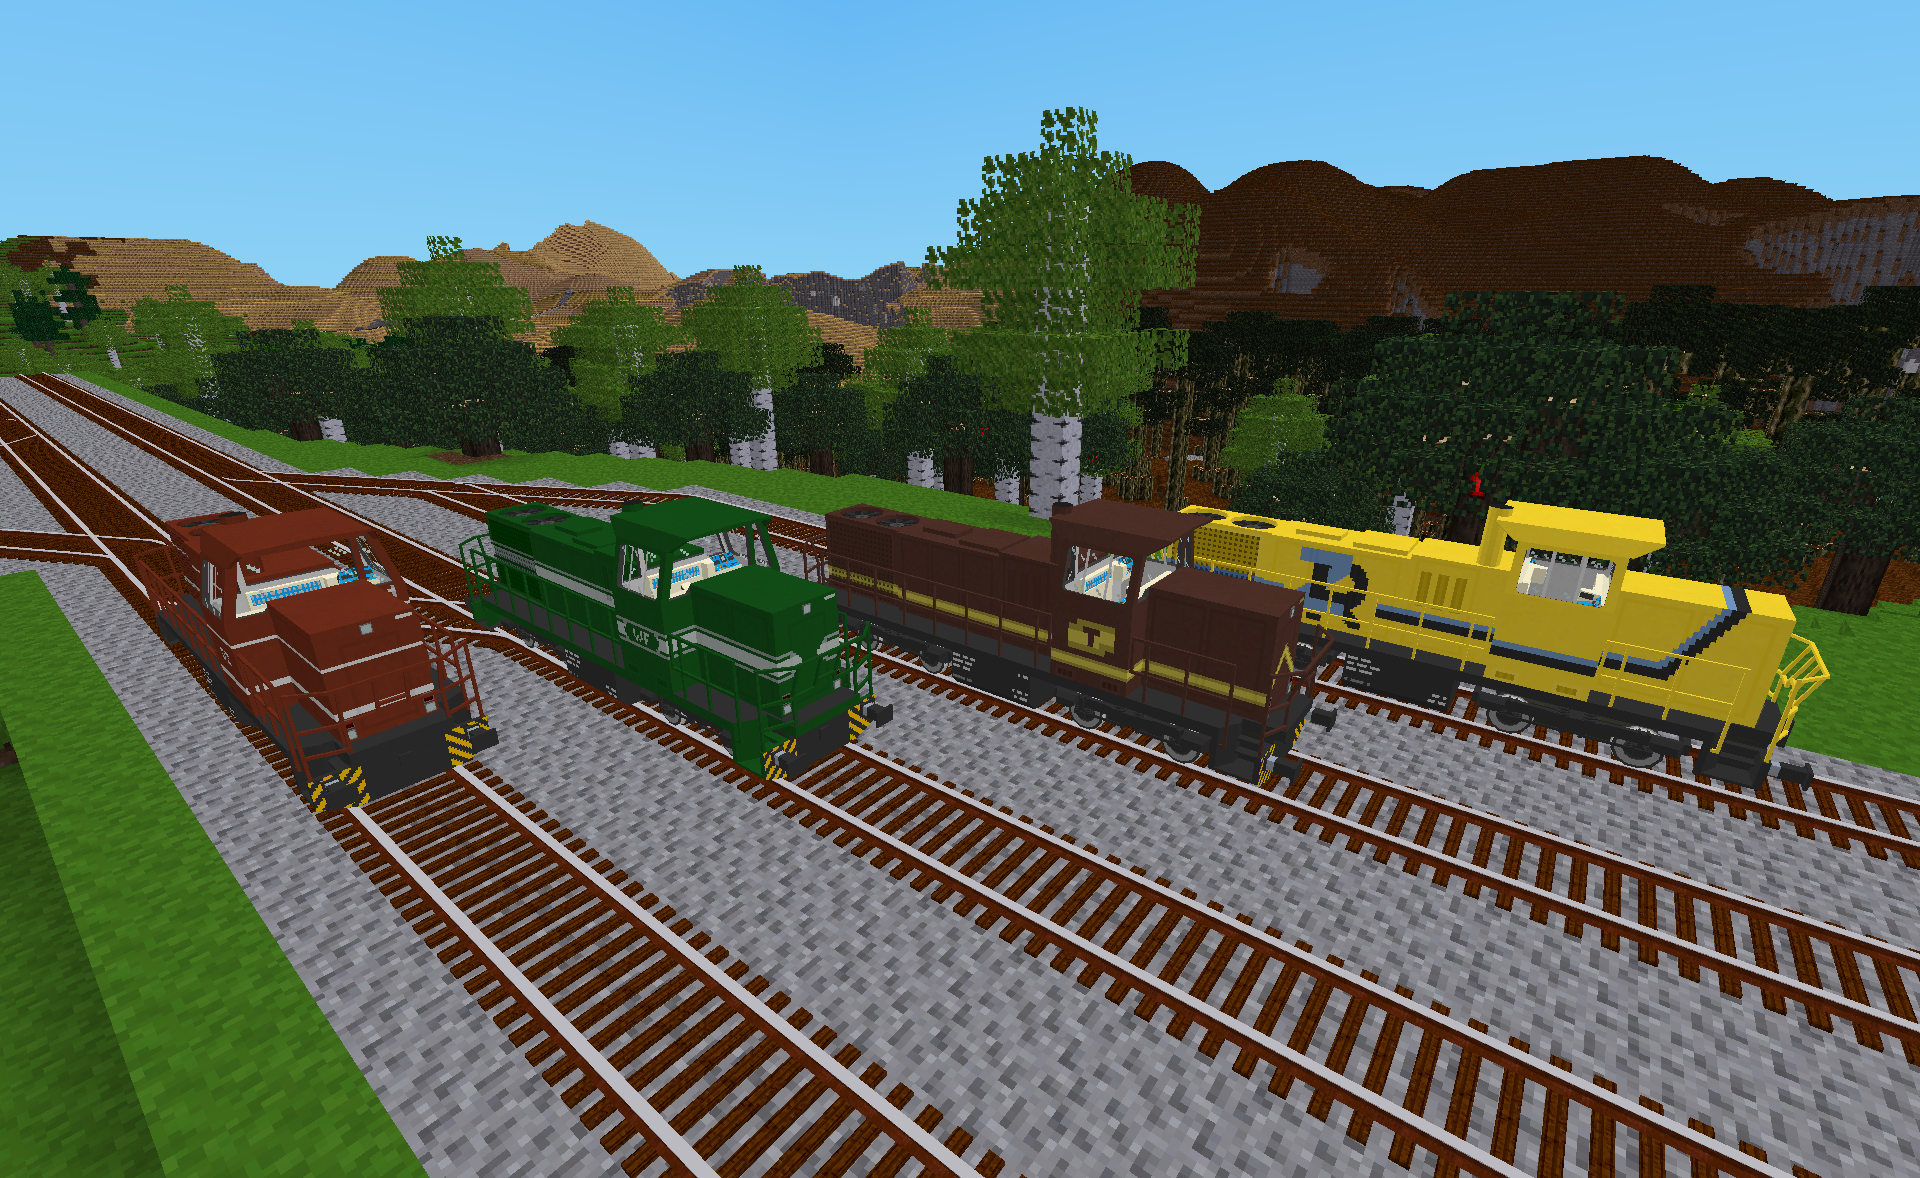
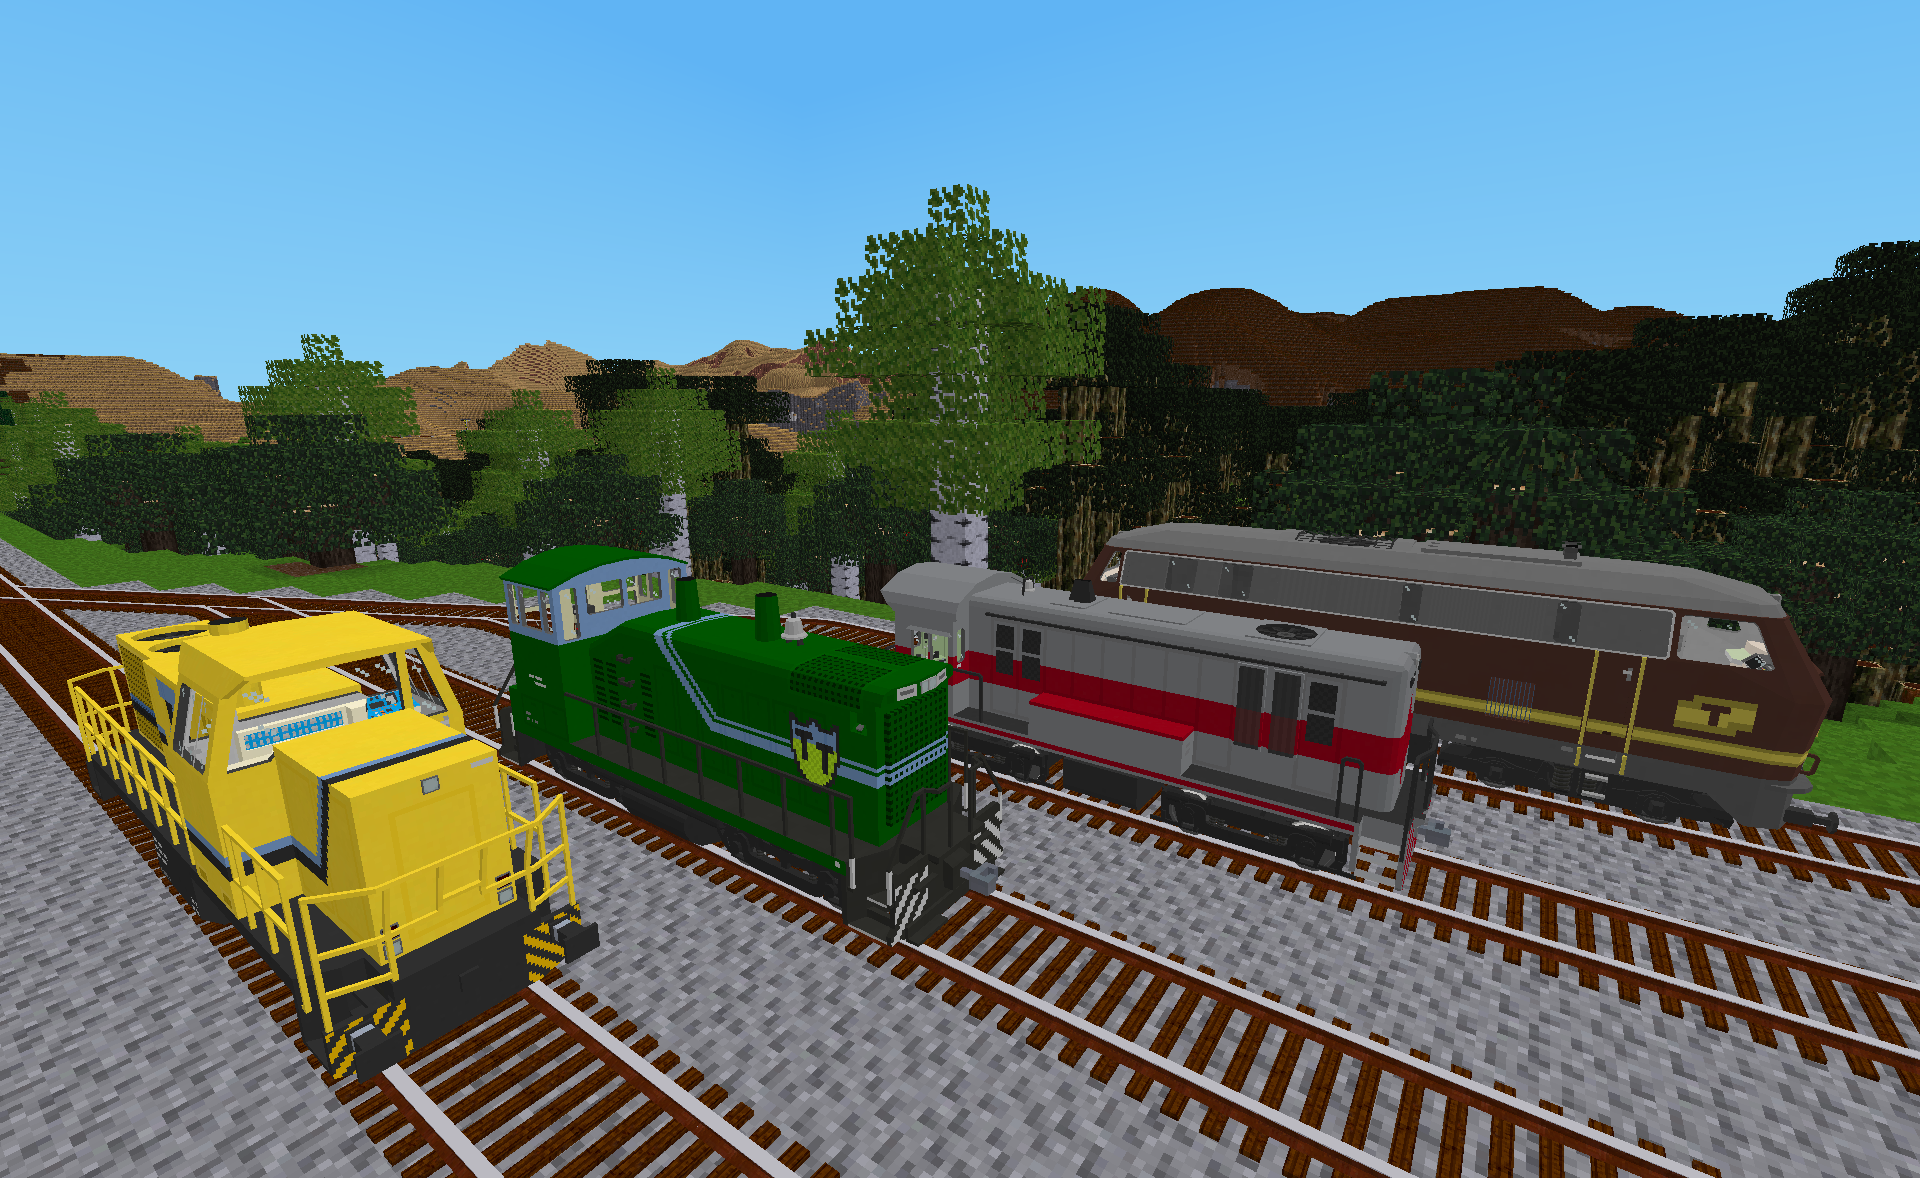
Add the Australian 500 Class Diesel Locomotive

diff --git a/dlxtrains_diesel_locomotives/README.md b/dlxtrains_diesel_locomotives/README.md
@@ -10,6 +10,7 @@ Note: DLX is used here to denote items, tools, wagons and locomotives defined in
 
 The following craft items are defined and added to the game if the "Complexity of DLX wagon crafting recipes" setting defined in **DlxTrains** is set to "Standard".  They are not added to the game if it is set to "Basic".  The default value for the setting is "Standard".
 
+- **Australian 500 Class Diesel Locomotive Body** - This is the set of components that are added to a chassis to make a Australian 500 Class Diesel Locomotive.
 - **Diesel Locomotive Battery Pack** - This item represents the batteries that provide power to the locomotive's electrical systems.  They are recharged when the diesel engine is running.  Note that battery power for DLX diesel locomotives is not currently represented or tracked in game.
 - **Diesel Locomotive Bogie** - Similar to the bogies used on wagons, this is a pair of wheel sets that are connected by a framework that can turn independently of the locomotive that it supports.  Unlike wagon bogies, however, it also contains gearboxes or electric motors (depending on the type of diesel locomotive) that are used to propel the train.
 - **Diesel Locomotive Chassis** - This is the underframe of the locomotive.
@@ -31,11 +32,24 @@ The following table summarizes the current set of DlxTrains Diesel Locomotives.
 
 Icon|Wagon Name|Length (m)|Coupler Type|Max Speed (m/s)|Livery Options
 :---:|---|:---:|---|:---:|:---:
+![](textures/inventory/dlxtrains_diesel_locomotives_locomotive_type4_inv.png)|Australian 500 Class Diesel Locomotive|6.3|Knuckle|20|4
 ![](textures/inventory/dlxtrains_diesel_locomotives_locomotive_type3_inv.png)|European BR218 Diesel Locomotive|8.2|Buffer & Chain|25|4
 ![](textures/inventory/dlxtrains_diesel_locomotives_locomotive_type1_inv.png)|European G1206 Diesel Locomotive|7.35|Buffer & Chain|25|4
 ![](textures/inventory/dlxtrains_diesel_locomotives_locomotive_type2_inv.png)|North American SW1500 Diesel Locomotive|6.81|Knuckle|25|4
 
 Note that locomotives may not be available in-game if the "Longest DLX wagon to include in game" setting defined in **DlxTrains** is set to a value other than "Unlimited".  That setting will use the lengths shown in the table when determining the locomotives to be excluded.
+  
+### Australian 500 Class Diesel Locomotive
+
+The Australian 500 Class Diesel Locomotive in DlxTrains is loosely based on the South Australian Railways 500 class diesel-electric shunting locomotive built by the Islington Railway Workshops in the late 1960s. Thirty four of the locomotives were built and many remained in service until the early 1990s.
+
+In game, the locomotive features several effects when the locomotive is moving:
+* The main and running lights will appear to turn on (but not illuminate) based on the locomotive's direction of movement.
+* Its radiator cooling fan will appear to be spinning while the locomotive is moving.
+* The diesel engine's sound will change based on the locomotive's velocity (unless this feature is disabled in the **DlxTrains** mod settings).
+* The amount of diesel smoke produced by the locomotive will vary based on its acceleration, velocity and the length of the train (unless this feature is disabled in the **DlxTrains** mod settings).
+
+The Australian 500 Class Diesel Locomotive has two driver stands in its cab, one facing forward and the other rearward. Players can select between these "forward" and reverse" facing driver stands as needed assuming that both stands are not concurrently occupied.
 
 ### European BR218 Diesel Locomotive
 
@@ -47,7 +61,7 @@ In game, the locomotive features several effects when the locomotive is moving:
 * The diesel engine's sound will change based on the locomotive's velocity (unless this feature is disabled in the **DlxTrains** mod settings).
 * The amount of diesel smoke produced by the locomotive will vary based on its acceleration, velocity and the length of the train (unless this feature is disabled in the **DlxTrains** mod settings).
 
-The locomotive has two driver's cabs, one at each end. Players can choose to be located in either cab 1 or cab 2, switching between the two even while the locomotive is moving. This can be especially useful when changing the direction of travel.  For the best in-cab experience, use the optional [advtrains_attachment_offset_patch](https://content.luanti.org/packages/doxygen_spammer/advtrains_attachment_offset_patch/)
+The locomotive has two driver's cabs, one at each end. Players can choose to be located in either cab 1 or cab 2, switching between the two even while the locomotive is moving. This can be especially useful when changing the direction of travel.
 
 ### European G1206 Diesel Locomotive
 
@@ -78,7 +92,7 @@ Players can optionally customize their locomotives with a visible unit number th
 
 ## Notes
 
-Due to current limitations in Luanti, the player's view while on board the locomotive will be from a point in space just above the center of the locomotive rather than from inside the cabin.  While this viewpoint is certainly sufficient, switching to third person view while driving the locomotive provides a slightly different perspective from outside the locomotive that might also be useful.  Alternatively, DlxTrains now supports the [advtrains_attachment_offset_patch](https://content.luanti.org/packages/doxygen_spammer/advtrains_attachment_offset_patch/) as an optional dependency which provides a fix for the issue.
+Due to current limitations in Luanti, the player's view while on board the locomotive will be from a point in space just above the center of the locomotive rather than from inside the cabin.  While this viewpoint is certainly sufficient, switching to third person view while driving the locomotive provides a slightly different perspective from outside the locomotive that might also be useful.  Alternatively, DlxTrains supports the [advtrains_attachment_offset_patch](https://content.luanti.org/packages/doxygen_spammer/advtrains_attachment_offset_patch/) as an optional dependency which provides a fix for the issue. Using the patch is highly recommended since it allows the player to have a first person perspective from the correct location inside the cab based on the selected diver stand.
 
 ## Licenses
 

diff --git a/README.md b/README.md
@@ -3,7 +3,7 @@
 DlxTrains ModPack is an extension for AdvTrains that adds train related content.  Features of the modpack include:
 
 - Detailed locomotives and wagons whose livery and age appearance can be selected by the owning player.
-- 3 diesel locomotives with dynamic sound, smoke and texture effects.
+- 4 diesel locomotives with dynamic sound, smoke and texture effects.
 - 17 industrial freight wagons, including some that have visible loads that reflect the wagon's inventory.
 - 2 support wagons, including an escort wagon and a caboose.
 - Basic support for [AdvTrains Livery Tools](https://content.luanti.org/packages/Marnack/advtrains_livery_tools/).
@@ -18,7 +18,7 @@ Please see the README file in each of the included mod folders for important add
 
 - **DlxTrains** - This is the base mod needed by all other DlxTrains related mods.  It contains common craft items and tools for the modpack plus utilities needed by the other DlxTrains mods.
 - **DlxTrains Cargo** - This is an optional mod that adds some cargo nodes as well as additional cargo related textures that can be used by the DlxTrains Industrial Wagons mod.
-- **DlxTrains Diesel Locomotives** - This mod provides three diesel locomotives in multiple liveries.  Players can optionally customize the exterior of these locomotives with a visible unit number that is unique to each locomotive.
+- **DlxTrains Diesel Locomotives** - This mod provides four diesel locomotives in multiple liveries.  Players can optionally customize the exterior of these locomotives with a visible unit number that is unique to each locomotive.
 - **DlxTrains Industrial Wagons** - This mod provides freight wagons that feature selectable liveries and, in some cases, visible cargo.
 - **DlxTrains Support Wagons** - This mod provides support wagons, including an escort wagon and a caboose, both of which provide additional seating for train crew members.  These wagons also feature selectable liveries.
 
@@ -28,14 +28,14 @@ All of the liveries in DlxTrains are intended to be fictional.  The following ta
 
 Railway Code|Logo(s)|Primary Color|Secondary Color|Diesel Locomotives|Industrial Wagons|Support Wagons
 ---|:---:|---|---|:---:|:---:|:---:
-AR|![](dlxtrains/textures/dlxtrains_logo_ar.png)|Red|Yellow|0|4|0
-AT|![](dlxtrains/textures/dlxtrains_logo_at.png)|Light Green|Yellow|0|4|0
+AR|![](dlxtrains/textures/dlxtrains_logo_ar.png)|Red|Yellow|1|4|0
+AT|![](dlxtrains/textures/dlxtrains_logo_at.png)|Light Green|Yellow|1|4|0
 DL&X|![](dlxtrains/textures/dlxtrains_logo_dlx.png)|Black|Light Grey|1|6|1
 DZ|![](dlxtrains/textures/dlxtrains_logo_dz.png)|Red|Light Grey|2|9|1
 NR|![](dlxtrains/textures/dlxtrains_logo_nr.png)|Blue|Light Grey|1|3|1
-T|![](dlxtrains/textures/dlxtrains_logo_t_2.png) ![](dlxtrains/textures/dlxtrains_logo_t.png)|Brown|Yellow|3|17|2
+T|![](dlxtrains/textures/dlxtrains_logo_t_2.png) ![](dlxtrains/textures/dlxtrains_logo_t.png)|Brown|Yellow|4|17|2
 TT|![](dlxtrains/textures/dlxtrains_logo_tt.png) ![](dlxtrains/textures/dlxtrains_logo_tt_2.png)|Green|Cyan|1|3|1
-VR|![](dlxtrains/textures/dlxtrains_logo_vr.png)|Light Grey|Red|0|4|0
+VR|![](dlxtrains/textures/dlxtrains_logo_vr.png)|Light Grey|Red|1|4|0
 WF|![](dlxtrains/textures/dlxtrains_logo_wf.png)|Green|Grey|2|9|1
 ZR|![](dlxtrains/textures/dlxtrains_logo_zr_2.png) ![](dlxtrains/textures/dlxtrains_logo_zr.png)|Yellow|Black|2|9|1
 